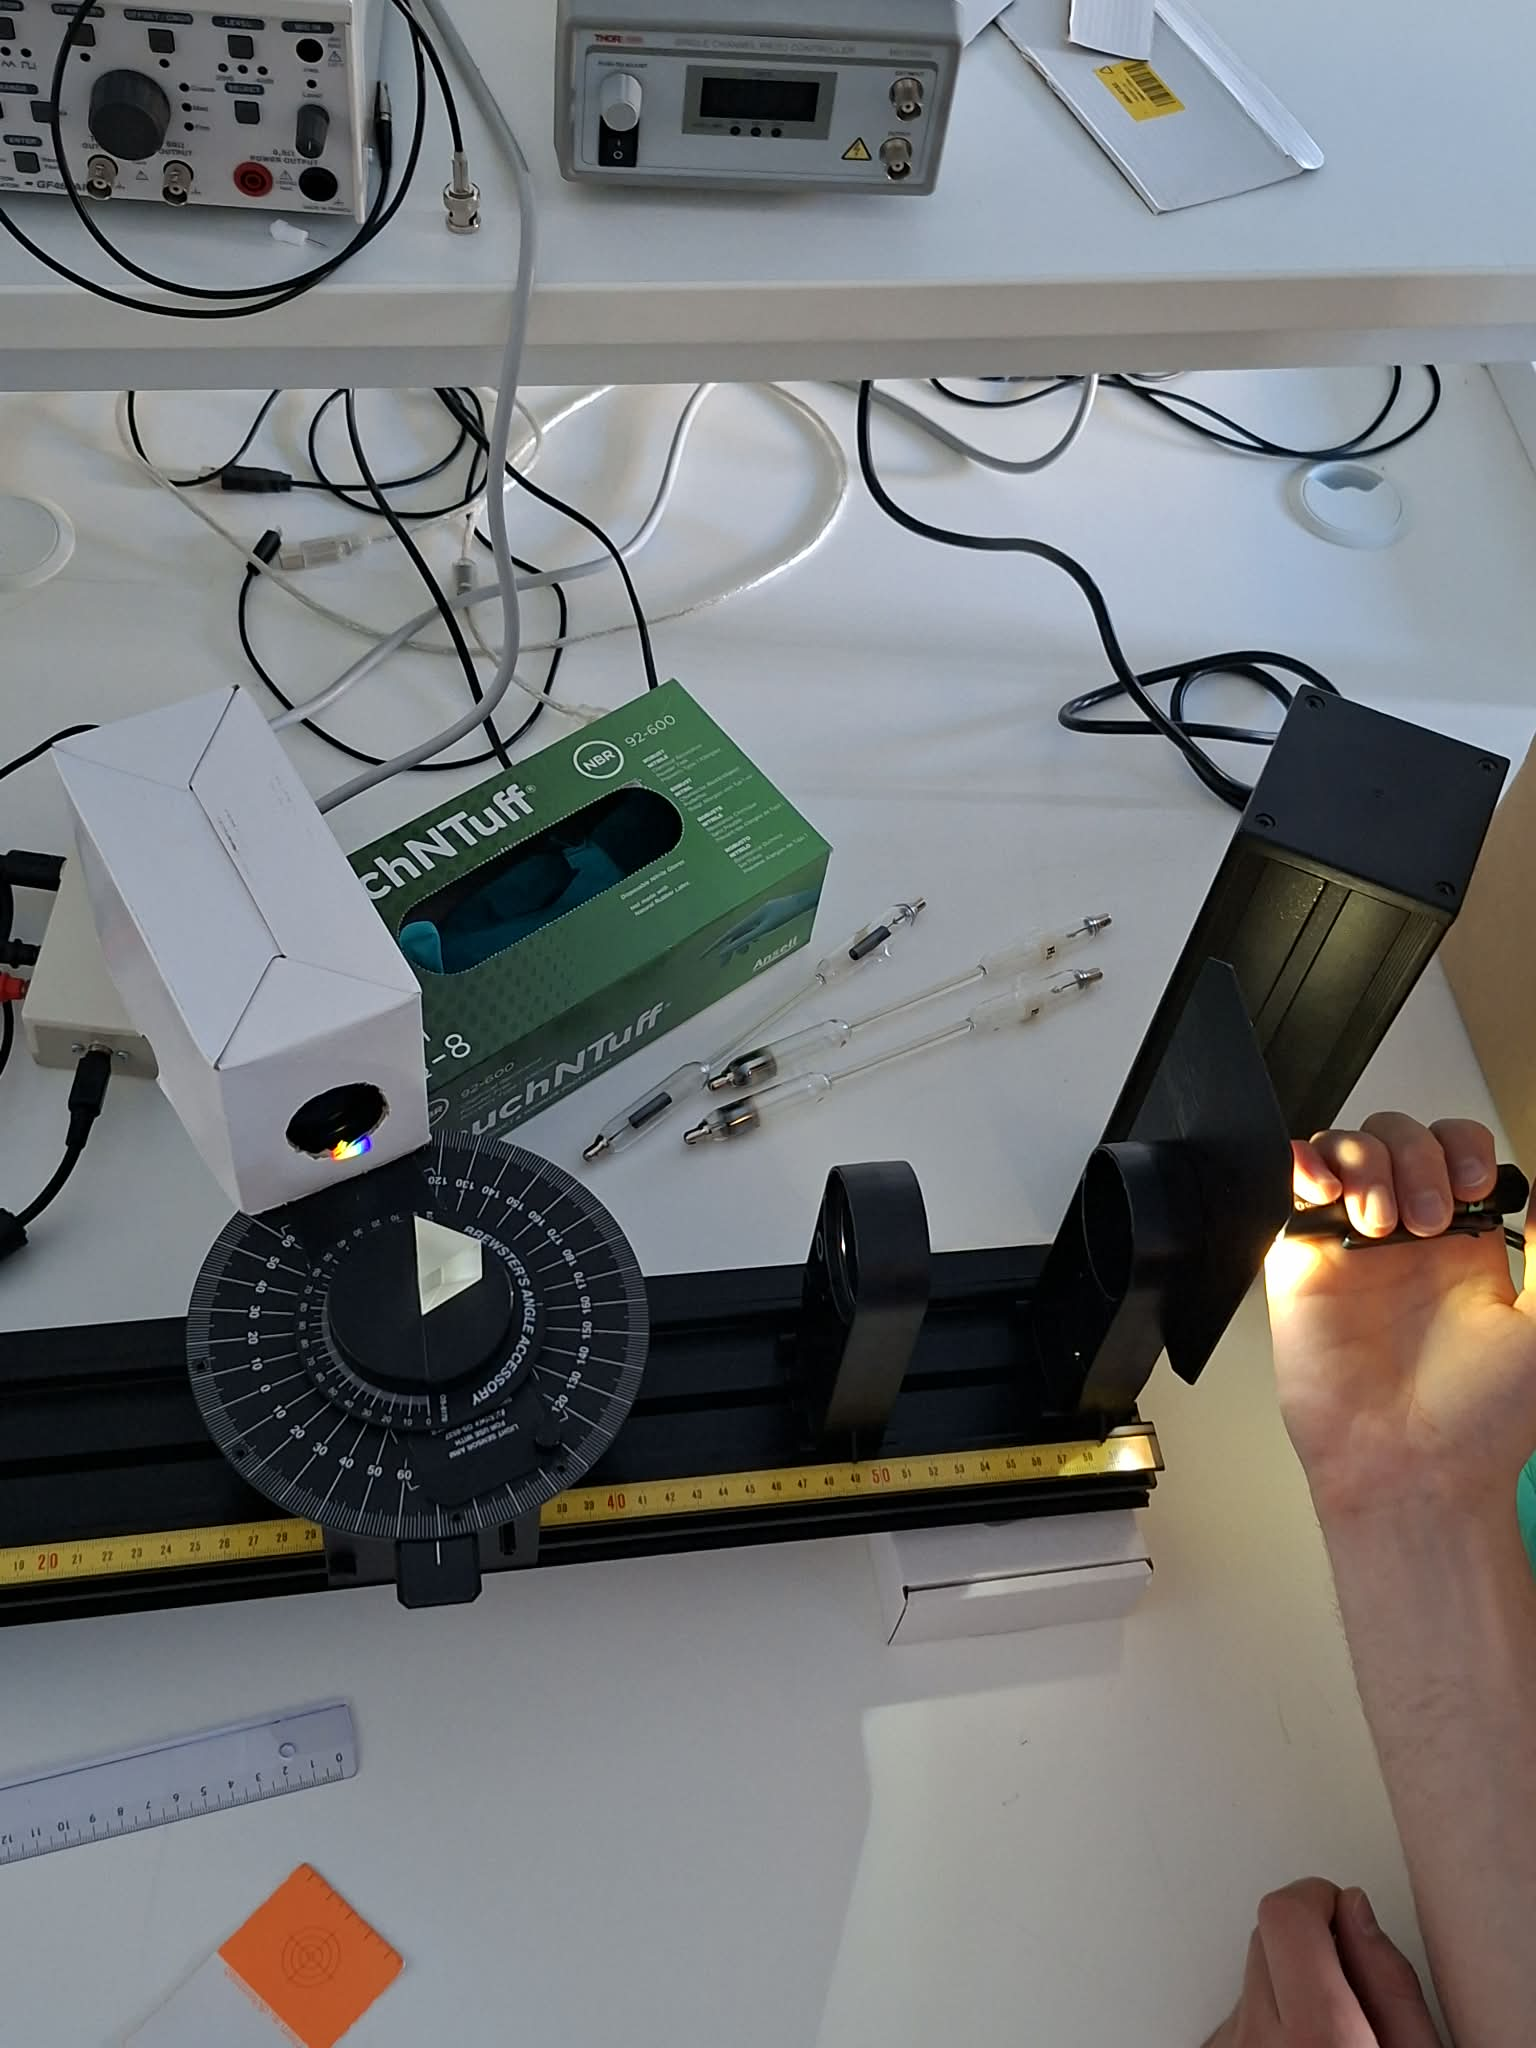
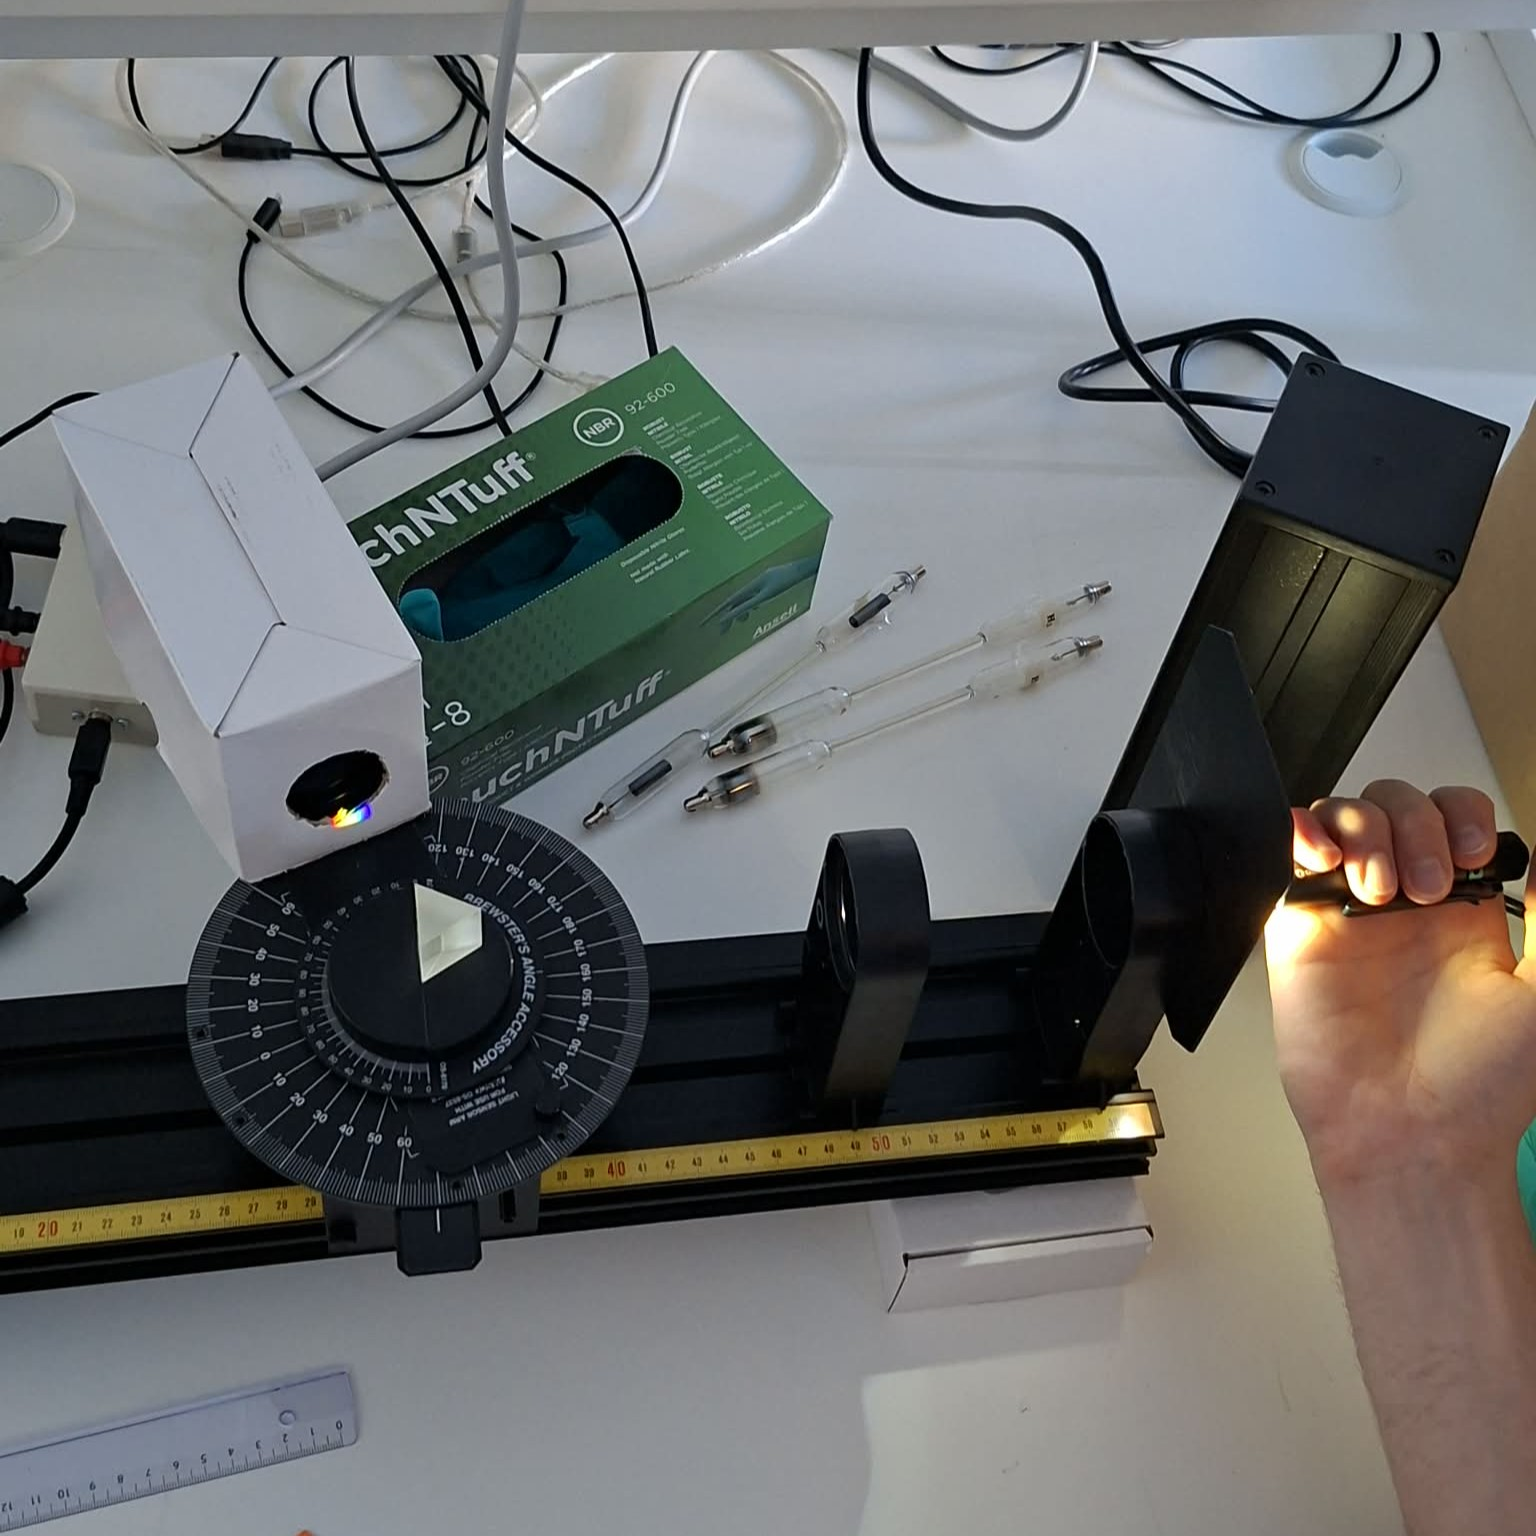
Billeder, ikke manuel ref og lidt omskrivningn

diff --git a/Exercise 4/Rapport/setup.tex b/Exercise 4/Rapport/setup.tex
@@ -17,19 +17,25 @@ To measure absorbtion spectra, a cuvette module\autocite{AbsorbtionModule} was i
 The measurements were simply to insert the cuvettes and take a measurement of the absorbtion spectra using the software that followed with the spectrometer.
 Only a single measurement was made of each cuvette.
 \section{Building a prism spectrometer}
-The setup of the spectrometer was much like seen in Figure 4, where the a gas discharge lamp was set in front of a small slit which was set in front of a collimating lens, as can be seen in on the right side of Figure 1.
+The spectrometer was constructed according to the geometry illustrated in Figure~\ref{fig:PrismSpectrometerSetup}.
+The setup uses a gas discharge lamp was set in front of a small slit which was set in front of a collimating lens, as can be seen in on the right side of Figure~\ref{photo:SetupNoBox}.
 \begin{figure}
-    \includegraphics[width=0.50\textwidth]{../Figurer/NoBox.jpg}
-    \caption{The setup with at white light shined through so a rainbow is visible as to recreate the Pink Floyd album cover of "The Dark Side of The Moon".}
+    \centering
+    \includegraphics[width=0.47\textwidth]{../Figurer/NoBox.jpg}
+    \caption{The setup with at white light LED shined through so a rainbow is visible as to recreate the Pink Floyd album cover of "The Dark Side of The Moon".}
+    \label{photo:SetupNoBox}
 \end{figure}
-This arrangement was sat on top of a turntable so the light passing through the collimating lens hits a prism at a an angle of incidence $\theta_{\textup{i}} = 60^{\circ}$ as can be seen on the left side of Figure 1. 
+This arrangement was placed on top of a turntable so the light passing through the collimating lens hits a prism at a an angle of incidence $\theta_{\textup{i}} = 60^{\circ}$ as can be seen on the left side of Figure~\ref{photo:SetupNoBox}. 
 The prism is on turning part of the turntable so the mounted sensor at an angle of $\theta_{\textup{o}} = 0^{\circ}$ is pointed orthogonal to the side of the prism opposite to the side that the beam from the collimating lens hits.
 An other lens was placed in front of the sensor to focus the lines to the sensor. 
-A box with a hole was placed over the sensor and lens to mitigate background noise, since the signals from the emission lines are quite weak.
-The emission lines of ionized helium as a test can be seen in Figure 3.
+A box with a hole was placed over the sensor and lens to mitigate background noise, 
+since the signals from the emission lines are quite weak.
+The emission lines of ionized helium as a test can be seen in Figure~\ref{photo:HeliumLines}.
 \begin{figure}
-    \includegraphics[width=0.50\textwidth]{../Figurer/Lines.jpg}
+    \centering
+    \includegraphics[width=0.47\textwidth]{../Figurer/Lines.jpg}
     \caption{The visible emission lines of helium shown through the lens in front of sensor.}
+    \label{photo:HeliumLines}
 \end{figure} 
 The sonsor was set at a gain of 10.
 Diameter of swiveling mounting circle 6,1 cm.
@@ -39,10 +45,12 @@ First (collimating) lens placement is the focal length $f=100\text{mm}$ from the
 From the detector arm paning center to the detector is 14,5 cm.
 The second lens (focusing) is 6 cm before the detector despite the focal length being 100 mm.
 The same gas discharge lamps as, when measuring with the OceanOptics spectrometer is used to be able to evaluate the succes of our spectrometer. 
-The final setup can be seen in Figure 3.
+The final setup can be seen in Figure~\ref{photo:BoxSetup}.
 \begin{figure}
-    \includegraphics[width=0.50\textwidth]{../Figurer/Box.jpg}
+    \centering
+    \includegraphics[width=0.47\textwidth]{../Figurer/Box.jpg}
     \caption{The completed setup with at white light shined through.}
+    \label{photo:BoxSetup}
 \end{figure}
 
 \begin{figure*}

diff --git a/Exercise 4/Rapport/main.tex b/Exercise 4/Rapport/main.tex
@@ -6,10 +6,14 @@
 \begin{document}
 %
 \frontmatter
-\maketitle
-\begin{center}
+\twocolumn[{
+ \begin{center}
+    \maketitle
+    \vspace{2cm}
     \includegraphics[width=0.80\textwidth]{../Figurer/EkspFys2 Ex4 Frontpage.jpg}
-\end{center}
+    \vspace{2cm}
+ \end{center}
+}]
 \include{introduction}
 \mainmatter
 \include{setup}
